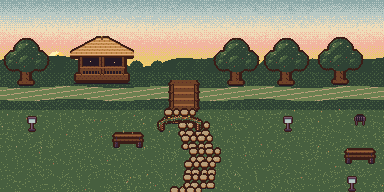
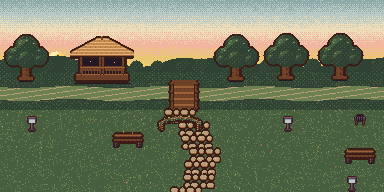
B14: uklad scen, dzialki farmy 16x16, sad, poprawki B9; plan pola i sadu dla programisty
Claude-Session: https://claude.ai/code/session_0135h6bTXzjAgeLjpLoaFjGV

Changed region(s): [[0.5312, 0.1562, 0.9688, 0.4688], [0.0, 0.1562, 0.125, 0.4688]]

diff --git a/tools/art/world/farm_bg.py b/tools/art/world/farm_bg.py
@@ -10,6 +10,7 @@ from PIL import Image
 from garden import blob
 from garden_bg import SKY, _break
 import farm_a
+import farm_b
 
 W, HT, HORIZON = 256, 144, 54
 
@@ -38,7 +39,15 @@ def sky():
     return im
 
 
-def world():
+PLACED = []
+GX, GY, COLS, ROWS = 32, HORIZON + 22, 12, 4      # siatka dzialek 16x16 na trawniku (kazda przerabiana osobno)
+START = [("lawn", c, r) for r in range(ROWS) for c in range(COLS)]
+MID = [("lawn", c, r) for r in range(ROWS) for c in range(COLS) if (c, r) not in {(1, 1), (2, 1), (3, 1), (1, 2), (3, 2), (6, 1), (8, 1), (10, 1), (6, 3), (8, 3), (10, 3), (5, 2)}] + \
+      [("bed", 1, 1), ("bed", 2, 1), ("bed", 3, 1), ("bed", 1, 2), ("bed_wet", 3, 2), ("bed", 5, 2),
+       ("tree", 6, 1), ("tree", 8, 1), ("tree", 10, 1), ("tree", 6, 3), ("tree", 8, 3), ("tree", 10, 3)]
+
+
+def world(plots=()):
     r = random.Random(51)
     im = H.canvas(W, HT)
     for x in range(W):
@@ -57,24 +66,49 @@ def world():
         x, y, w, h = meta[name][i]; return sheet.crop((x, y, x + w, y + h))
     fence = _img("farm/fence_farm.png")
     for x in range(0, W, 16): im.alpha_composite(fence, (x, HORIZON + 6))
-    im.alpha_composite(_img("farm/barn_hay.png"), (176, HORIZON - 34))
-    # sad: dwa rzedy drzewek owocowych na trawie (lewa czesc), z przerwa na sciezke
-    for row, y in enumerate((HORIZON + 22, HORIZON + 54)):
-        for k, name in enumerate(("tree_apple", "tree_strawberry", "tree_apple", "tree_strawberry") if row == 0 else ("tree_strawberry", "tree_apple", "tree_strawberry", "tree_apple")):
-            im.alpha_composite(fr(name, 2), (12 + k * 24, y))
-    # pole: rzedy grzadek z przerwami na trawe (prawa czesc)
-    for row, ty in enumerate((HORIZON + 24, HORIZON + 46, HORIZON + 68)):
-        for tx in range(124, 244, 16):
-            im.alpha_composite(fr("bed_wet" if (row + tx // 16) % 3 == 0 else "bed_empty", 0), (tx, ty))
+    PLACED.clear()
+    def put(n, x, y, i):
+        PLACED.append((n, x, y, i)); im.alpha_composite(i, (x, y))
+    put("barn_hay", 176, HORIZON - 34, _img("farm/barn_hay.png"))
+    kinds = {"lawn": ("plot_lawn", None), "bed": ("bed_empty", 0), "bed_wet": ("bed_wet", 0)}
+    for kind, c, rw in sorted(plots, key=lambda p: p[2]):                       # rzedami od gory: nizsze rysowane pozniej
+        x, y = GX + c * 16, GY + rw * 16
+        if kind == "lawn": put("plot_lawn", x, y, _img("farm/plot_lawn.png"))
+        elif kind in ("bed", "bed_wet"): put(kinds[kind][0], x, y, fr(kinds[kind][0], 0))
+        elif kind == "tree":
+            put("plot_orchard", x, y, _img("farm/plot_orchard.png"))
+            nm = "tree_apple" if (c + rw) % 2 == 0 else "tree_strawberry"
+            put(nm, x, y - 16, fr(nm, 2))
     for _ in range(30):
         x, y = r.randint(0, W - 1), r.randint(HORIZON + 24, HT - 3)
         if im.getpixel((x, y))[:3] in H.RAMPS["moss"]: H.put(im, x, y, r.choice(["hay.2", "linen.2"]))
     return im
 
 
-def build():
+def orchard_scene():
+    """bg:orchard - podglad sadu: trzy dzialki sadu z drzewkami w stadiach 0-2, kosz i drabina na trawie."""
     out = Image.new("RGBA", (W, HT))
-    out.alpha_composite(sky()); out.alpha_composite(world())
+    out.alpha_composite(sky()); base = world([])
+    PLACED.clear()
+    def put(n, x, y, i):
+        PLACED.append((n, x, y, i)); base.alpha_composite(i, (x, y))
+    meta = json.loads((H.WORLD_DIR / "farm/farm.json").read_text(encoding="utf-8"))["frames"]
+    sheet = _img("farm/farm.png")
+    for st in range(3):
+        for k in range(4):
+            c, r = 1 + st * 4 + (k % 2) * 2, 1 + (k // 2) * 2
+            x, y = GX - 16 + c * 16, GY + r * 16
+            put("plot_orchard", x, y, _img("farm/plot_orchard.png"))
+            name = ("tree_apple", "tree_strawberry", "tree_pear", "tree_blueberry")[k]
+            x0, y0, w, h = meta[name][st]
+            put(name, x, y + 16 - h, sheet.crop((x0, y0, x0 + w, y0 + h)))
+    out.alpha_composite(base)
+    return _break(out)
+
+
+def build(plots=()):
+    out = Image.new("RGBA", (W, HT))
+    out.alpha_composite(sky()); out.alpha_composite(world(plots))
     return _break(out)
 
 
@@ -109,5 +143,19 @@ def overview(path):
 if __name__ == "__main__":
     im = build()
     H.save_png(im, H.WORLD_DIR / "bg/farm.png")
+    oi = orchard_scene(); H.save_png(oi, H.WORLD_DIR / "bg/orchard.png")
+    import layout_check as _LC; _LC.report("sad", PLACED)
+    H._update_json(H.TILES_FILE, lambda d: d["bg"].__setitem__("orchard", {"file": "bg/orchard.png", "size": [W, HT]}))
+    oi.convert("RGB").resize((W * 3, HT * 3), Image.NEAREST).save(H.ROOT / "docs/album/przebudowa/b14-4_sad.png")
     H.save_png(im.resize((W * 2, HT * 2), Image.NEAREST), H.WORLD_DIR / "bg/farm_x2.png")
     overview(H.ROOT / "docs/album/przebudowa/b7-6_przeglad_farmy.png")
+    import layout_check as LC
+    S = Path("/tmp/claude-0/-home-user/06cc83a8-7800-529c-8cf3-9903bd86f472/scratchpad")
+    stages = [START, MID, [p for p in MID if p[0] != "lawn"]]
+    sh = Image.new("RGB", (W, HT * 3 + 8))
+    for i, st in enumerate(stages):
+        im2 = build(st); LC.report(f"farma etap {i}", PLACED); sh.paste(im2.convert("RGB"), (0, i * (HT + 4)))
+    sh = sh.resize((sh.width * 3, sh.height * 3), Image.NEAREST)
+    sh.save(S / "b14-farm.png")
+    Path(H.ROOT / "docs/album/przebudowa").mkdir(parents=True, exist_ok=True)
+    sh.save(H.ROOT / "docs/album/przebudowa/b14-4_farma_etapy.png")

diff --git a/tools/art/world/layout_check.py b/tools/art/world/layout_check.py
@@ -1,7 +1,7 @@
 """Kontrola ukladu scen: wykrywa nakladanie sie nieprzezroczystych pikseli przedmiotow (poza dozwolonymi parami)."""
 import numpy as np
 
-FLAT = {"path_cobble", "path_stone", "picnic_blanket", "soil", "pond_big"}      # plaskie, moga lezec pod innymi
+FLAT = {"path_cobble", "path_stone", "picnic_blanket", "soil", "pond_big", "plot_lawn", "plot_field", "plot_orchard"}      # plaskie, moga lezec pod innymi
 
 
 def overlaps(placed, allow=()):
@@ -18,3 +18,40 @@ def overlaps(placed, allow=()):
             n = int((aa[y0 - ya:y1 - ya, x0 - xa:x1 - xa] & ab[y0 - yb:y1 - yb, x0 - xb:x1 - xb]).sum())
             if n and not (na in FLAT or nb in FLAT): out.append((na, nb, n))
     return out
+
+
+def order_issues(placed):
+    """Kolejnosc warstw: przy nachodzeniu pikseli pozniej rysowany ma miec nizsza (wieksze y) dolna krawedz.
+    placed w kolejnosci rysowania; przedmioty scienne (nazwa z prefiksem wall:) i plaskie pomijane."""
+    out = []
+    for i, (na, xa, ya, ia) in enumerate(placed):
+        aa = np.array(ia)[:, :, 3] > 0
+        for nb, xb, yb, ib in placed[i + 1:]:
+            if na in FLAT or nb in FLAT: continue
+            ab = np.array(ib)[:, :, 3] > 0
+            x0, y0 = max(xa, xb), max(ya, yb); x1, y1 = min(xa + aa.shape[1], xb + ab.shape[1]), min(ya + aa.shape[0], yb + ab.shape[0])
+            if x1 <= x0 or y1 <= y0: continue
+            n = int((aa[y0 - ya:y1 - ya, x0 - xa:x1 - xa] & ab[y0 - yb:y1 - yb, x0 - xb:x1 - xb]).sum())
+            if n and yb + ib.height < ya + ia.height:
+                out.append((na, nb, n, "pozniej rysowany stoi wyzej na ekranie"))
+    return out
+
+
+def zone_issues(placed, forbidden, allow=()):
+    """forbidden(x, y) -> True gdy punkt jest w zlej strefie (np. w wodzie). Sprawdza kotwice dol-srodek i dolne rogi."""
+    out = []
+    for n, x, y, im in placed:
+        if n in FLAT or n in allow: continue
+        by = y + im.height - 1
+        for ax in (x + 2, x + im.width // 2, x + im.width - 3):
+            if forbidden(ax, by):
+                out.append((n, ax, by)); break
+    return out
+
+
+def report(name, placed, forbidden=None, allow_zone=(), allow=()):
+    rows = [("nakladanie", *o) for o in overlaps(placed, allow)] + [("kolejnosc", *o) for o in order_issues(placed)]
+    if forbidden: rows += [("strefa", *z) for z in zone_issues(placed, forbidden, allow_zone)]
+    print(f"[{name}] {len(placed)} przedmiotow, problemow: {len(rows)}")
+    for r in rows: print("   ", r)
+    return rows

diff --git a/tools/art/world/garden_bg.py b/tools/art/world/garden_bg.py
@@ -65,6 +65,9 @@ def sky(tod):
     return im
 
 
+PLACED = []
+
+
 def world(tod):
     r = random.Random(21)
     im = H.canvas(W, HT)
@@ -84,20 +87,23 @@ def world(tod):
         H.rrect(im, x + 1, HORIZON - 2, x + 4, HORIZON + 12, 1, ("wood.0", "wood.1", "wood.2", "wood.2"))
     H.hline(im, 0, W - 1, HORIZON + 3, "wood.2"); H.hline(im, 0, W - 1, HORIZON + 4, "wood.1")
     H.hline(im, 0, W - 1, HORIZON + 8, "wood.2"); H.hline(im, 0, W - 1, HORIZON + 9, "wood.1")
+    PLACED.clear()
+    def put(name, x, y, i):
+        PLACED.append((name, x, y, i)); im.alpha_composite(i, (x, y))
     ga = Image.open(H.WORLD_DIR / "garden/gate_garden.png").convert("RGBA")       # furtka na srodku plotu
-    for dx in (0, 16): im.alpha_composite(ga, (120 + dx - 8, HORIZON - 2))
+    for dx in (0, 16): put("gate_garden", 120 + dx - 8, HORIZON - 2, ga)
     # sciezka: kamienie coraz wieksze ku dolowi
     ps = Image.open(H.WORLD_DIR / "garden/path_stone.png").convert("RGBA")
     for row in range(6):
         im.alpha_composite(ps, (122 + (8 if row % 2 else -4) + row, HORIZON + 14 + row * 13))
     # tunel z wierzby, drzewa, krzewy
-    im.alpha_composite(home.willow_tunnel(), (24, HORIZON + 8))
+    put("willow_tunnel", 24, HORIZON + 8, home.willow_tunnel())
     t1, t2 = tree_small(), tree_small()
-    im.alpha_composite(t1, (196, HORIZON - 30)); im.alpha_composite(t2, (232, HORIZON - 26))
+    put("tree_small", 196, HORIZON - 30, t1); put("tree_small", 232, HORIZON - 26, t2)
     for name, x, y in (("bush_berry", 80, HORIZON + 14), ("hedge", 185, HORIZON + 14), ("hedge", 201, HORIZON + 14),
                        ("flowerbed_tulip", 8, HORIZON + 50), ("flowerbed_daisy", 200, HORIZON + 62),
                        ("bench_wood", 150, HORIZON + 40), ("bird_bath", 60, HORIZON + 58)):
-        im.alpha_composite(Image.open(H.WORLD_DIR / f"garden/{name}.png").convert("RGBA"), (x, y))
+        put(name, x, y, Image.open(H.WORLD_DIR / f"garden/{name}.png").convert("RGBA"))
     for _ in range(36):                                                           # drobne kwiaty
         x, y = r.randint(0, W - 1), r.randint(HORIZON + 24, HT - 3)
         if im.getpixel((x, y))[:3] in H.RAMPS["moss"] or True:

diff --git a/tools/art/world/farm_b.py b/tools/art/world/farm_b.py
@@ -1,0 +1,54 @@
+"""B14-4/5: dzialki farmy 64x64 (trawnik do przerobienia, pole, sad). Gracz sam wybiera, co z dzialki powstaje."""
+import json
+import random
+import sys
+from pathlib import Path
+sys.path.insert(0, str(Path(__file__).resolve().parents[1]))
+import handart as H
+from PIL import Image
+
+W, Ht = 16, 16                                              # jedna dzialka = jedno male pole 16x16, tworzone osobno
+CELL = 16
+
+
+def _grass(im, r, tones):
+    for y in range(Ht):
+        for x in range(W):
+            c = tones[0]
+            if r.random() < .14: c = tones[1]
+            if r.random() < .05: c = tones[2]
+            H.put(im, x, y, c)
+
+
+def plot_lawn():
+    """Puste pole z trawnikiem: jasniejsza kratka z naroznikami z siana (miejsce do przerobienia)."""
+    im = H.canvas(W, Ht)
+    _grass(im, random.Random(7), ("moss.2", "moss.1", "moss.3"))
+    for x, y in ((0, 0), (W - 1, 0), (0, Ht - 1), (W - 1, Ht - 1)): H.put(im, x, y, "hay.1")
+    return im
+
+
+def plot_orchard():
+    """Miejsce na drzewko: trawa z kregiem sciolki; drzewko (16x32) stoi dolem na tej komorce, korona zajmuje komorke nad nia."""
+    im = H.canvas(W, Ht)
+    _grass(im, random.Random(11), ("moss.2", "moss.1", "moss.3"))
+    for dy, hw in ((-4, 4), (-3, 6), (-2, 7), (-1, 6), (0, 4)):
+        H.hline(im, 8 - hw, 7 + hw, 10 + dy + 2, "wood.1" if abs(dy) < 2 else "wood.0")
+    H.hline(im, 5, 10, 10, "wood.2")
+    return im
+
+
+ITEMS = {"plot_lawn": plot_lawn, "plot_orchard": plot_orchard}   # pole = istniejace bed_empty / bed_wet
+
+
+def build():
+    for k, f in ITEMS.items():
+        H.register_item(k, "farm", f())
+
+
+if __name__ == "__main__":
+    build()
+    S = Path("/tmp/claude-0/-home-user/06cc83a8-7800-529c-8cf3-9903bd86f472/scratchpad")
+    sh = Image.new("RGBA", (W * 4 + 16, Ht + 8), (40, 70, 40, 255))
+    for i, f in enumerate(ITEMS.values()): sh.alpha_composite(f(), (4 + i * (W + 4), 4))
+    sh.resize((sh.width * 4, sh.height * 4), Image.NEAREST).save(S / "b14-plots.png")

diff --git a/tools/art/world/decor_a.py b/tools/art/world/decor_a.py
@@ -249,8 +249,8 @@ def h_house():
 def fence_wire(frame, bar, seed):
     im = H.canvas(24, 40)
     for x in (1, 22): H.vline(im, x, 0, 39, frame); H.vline(im, x + 1 if x == 1 else x - 1, 0, 39, bar)
-    for x in range(4, 22, 4): H.vline(im, x, 1, 38, bar)
-    for y in range(2, 39, 6): H.hline(im, 1, 22, y, frame)
+    for x in range(7, 22, 7): H.vline(im, x, 1, 38, bar)
+    for y in (3, 19, 35): H.hline(im, 1, 22, y, frame)
     return fin(im)
 
 
@@ -395,9 +395,12 @@ def pic_field():
 
 
 def pic_pigs():
-    im = H.canvas(22, 18); H.rect(im, 1, 1, 20, 16, "wood.2"); H.rect(im, 3, 3, 18, 14, "hay.0")
-    for x, w in ((5, 6), (12, 4)):
-        oval(im, x + w // 2, 10, w // 2 + 1, 2, "wood.1"); H.put(im, x + w, 9, "plum.2"); H.put(im, x + 1, 8, "wood.0")
+    im = H.canvas(22, 18); H.rect(im, 1, 1, 20, 16, "wood.2"); H.rect(im, 3, 3, 18, 14, "hay.1")
+    H.hline(im, 3, 18, 13, "moss.2"); H.hline(im, 3, 18, 14, "moss.1")
+    oval(im, 8, 10, 4, 3, "wood.1"); oval(im, 15, 11, 2, 2, "linen.2")             # duza i mala swinka
+    for x, y in ((5, 8), (13, 9)): H.put(im, x, y, "wood.0" if x < 10 else "linen.1")      # uszy
+    for x, y in ((5, 10), (13, 11)): H.put(im, x, y, "plum.0")                                # oczy
+    H.put(im, 4, 11, "rose.1"); H.put(im, 12, 12, "rose.1")                                 # noski
     return fin(im)
 
 

diff --git a/tools/art/world/market_bg.py b/tools/art/world/market_bg.py
@@ -32,6 +32,9 @@ def sky():
     return im
 
 
+PLACED = []
+
+
 def world():
     r = random.Random(61)
     im = H.canvas(W, HT)
@@ -45,10 +48,13 @@ def world():
     for k, y in enumerate(range(HORIZON + 66, HT - 4, 13)):
         for x in range(-8 + (k % 2) * 8, W, 16): im.alpha_composite(pc, (x, y))
     H.break_checkers(im)
-    for name, x, y in STALLS: im.alpha_composite(_img(f"market/{name}.png"), (x, y))
-    im.alpha_composite(_img("market/order_board.png"), (64, HORIZON + 40))
-    for n, x in (("promo_1", 30), ("promo_2", 112), ("promo_3", 196)): im.alpha_composite(_img(f"market/{n}.png"), (x, HORIZON + 68))
-    for n, x in (("poster_2", 163), ("poster_3", 177), ("poster_1", 238)): im.alpha_composite(_img(f"market/{n}.png"), (x, HORIZON + 40))
+    PLACED.clear()
+    def put(n, x, y):
+        i = _img(f"market/{n}.png"); PLACED.append((n, x, y, i)); im.alpha_composite(i, (x, y))
+    for name, x, y in STALLS: put(name, x, y)
+    put("order_board", 64, HORIZON + 40)
+    for n, x in (("promo_1", 30), ("promo_2", 112), ("promo_3", 196)): put(n, x, HORIZON + 68)
+    for n, x in (("poster_2", 163), ("poster_3", 177), ("poster_1", 238)): put(n, x, HORIZON + 40)
     return im
 
 

diff --git a/tools/art/world/room_scenes.py b/tools/art/world/room_scenes.py
@@ -13,9 +13,9 @@ TILES = json.loads(H.TILES_FILE.read_text(encoding="utf-8"))["tiles"]
 WALL_ROWS, W, Ht = 4, 10, 7
 LAYOUT = {   # id -> (x_lewy, y_gora | None = na podlodze)
     "kuki": [("window_sun", 8, 14), ("side_table", 52, None), ("cushion_big", 70, None), ("sig_kuki_blanket", 18, None)],
-    "ned": [("shelf_small", 14, 20), ("hay_bar_wood", 54, None), ("cushion_big", 100, None), ("sig_ned_snack_nook", 10, None)],
+    "ned": [("shelf_small", 14, 20), ("cushion_big", 44, None), ("hay_bar_wood", 62, None), ("sig_ned_snack_nook", 10, None)],
     "james": [("curtains_dots", 10, 16), ("fairy_lights", 50, 8), ("cosy_nook", 60, None), ("sig_james_hideout", 10, None)],
-    "glen": [("bookshelf", 10, None), ("armchair", 54, None), ("cushion_big", 100, None), ("sig_glen_knit_bed", 20, None)],
+    "glen": [("bookshelf", 4, None), ("sig_glen_knit_bed", 38, None), ("armchair", 74, None), ("cushion_big", 110, None)],
     "racuch": [("hanging_planter", 40, 12), ("fairy_lights", 4, 6), ("toy_basket", 60, None), ("sig_racuch_hop_pad", 6, None)],
 }
 

diff --git a/tools/art/world/park_bg.py b/tools/art/world/park_bg.py
@@ -84,7 +84,7 @@ def world(extra=()):
         i = _img(rel or f"park/{name}.png"); PLACED.append((name, x, y, i)); im.alpha_composite(i, (x, y))
     bank = STREAM[0] - 2                                                       # drzewa i altana stoja na dalekim brzegu
     put("gazebo", 70, bank - 48)
-    for x in (2, 212, 262, 316): put("tree_big", x, bank - 48 + (x % 5))
+    for x in (2, 212, 262, 316): put("tree_big", x, bank - 52 + (x % 3))
     put("bridge_wood", *BRIDGE)
     pc = _img("park/path_cobble.png")                                          # sciezka od mostu w dol
     for k, y in enumerate(range(STREAM[1] + 8, HT - 4, 13)):

diff --git a/docs/PLAN.md b/docs/PLAN.md
@@ -264,6 +264,15 @@ Grafika jest gotowa w `assets/` (kontrakt plików: `docs/KONTRAKT_ASSETOW.md`, s
 | G10 | Kontrola plików: skrypt `tools/qa/check-assets.js` (każdy id z `world_items.json`, `farm.json`, `pigs_named.json` ma plik; każda klasa `icon-*` ma wpis w `icons.json`) plus krok w `SelfTest` | `tools/qa/check-assets.js`, `SelfTest.cs` | W16 lub W22-05 | SMOKE + BUILD |
 Poza kodem: rysunek 3 starych animacji z `Resources/animations.xml` zostaje jak jest; po wdrożeniu G1-G8 człowiek ogląda wszystkie ekrany w grze, a Claude poprawia grafikę na podstawie zrzutów (nowa mała fala S6).
 
+### Pole i sad zależne od gracza (dla programisty; do G6 i W20-05 / W18)
+Gracz sam decyduje, ile ma pól uprawnych i ile drzewek w sadzie. Na początku dostaje **puste pole z trawnikiem** (`bg:farm`: trawa, płot i stodoła, bez grządek i drzew). Trawnik to siatka małych kwadratowych działek **16x16, każda przerabiana osobno** (żadnych dużych połaci):
+- działka `lawn` (`plot_lawn`, 16x16, jaśniejsza kratka z narożnikami z siana) → **grządka** (`bed_empty`, 16x16) albo **miejsce na drzewko** (`plot_orchard`, 16x16, krąg ściółki, na nim stoi drzewko 16x32; korona zajmuje komórkę nad nim, więc ta komórka jest zarezerwowana i nie przyjmie drugiego drzewka);
+- **grządka jest sucha** (`bed_empty`), mokra (`bed_wet`) tylko po podlaniu i znowu sucha po wyschnięciu (czas z `farm.json`); mokra grządka nie jest osobnym typem działki;
+- przeróbka kosztuje koniczynki, rozbiórka zwraca działkę do trawnika; liczba działek i podział pole/sad nie są zaszyte w układzie: stan zapisu trzyma listę działek `{col, row, kind: lawn|bed|tree, stage, wet}`, a `FarmExpansion` odblokowuje kolejne komórki siatki za koniczynki (strop w `farm.json`);
+- scena: tło, potem działki rzędami od góry (niższe rysowane później), potem światło; siatka 12x4 komórek na trawniku (`farm_bg.GX/GY/COLS/ROWS`), zasady warstw w `docs/UKLAD_SCEN.md`;
+- nowe id: `plot_lawn`, `plot_orchard` (atlas, `place: farm`), `bg:orchard` (podgląd sadu 256x144).
+Akceptacja: nowy zapis startuje z samymi działkami `lawn`; test w `FarmEngine`/`FarmExpansion`: przeróbka lawn→bed i lawn→tree, rozbiórka, limit działek, nawodnienie tylko grządek, zgodność zapisu.
+
 ## Mapa starych zadań
 F2-02→PR #32 (W1-01,W1-02,W2-01 stare) + W1-09,W1-10,W2-01 · F2-07→zrobione · F3-01→W1-03,W1-04,W2-02,W3-01,W7-06 · F3-03→W4-01..W4-04,W7-07,W7-08 · F4-01→W4-07,W5-01,W5-02 · F4-02→W4-06,W6-01,W6-02 ·
 F4-03→W1-05,W2-03,W3-03 · F4-04→W3-04,W3-05,W4-05 · F4-05→W1-06,W2-06,W2-08,W5-04 · F4-06→W1-07,W2-04,W5-03,W6-02,W6-03 · F4-07→W3-08,W4-08 · F4-08→W2-09,W3-07 ·

diff --git a/docs/UKLAD_SCEN.md b/docs/UKLAD_SCEN.md
@@ -1,0 +1,21 @@
+# Układ scen: warstwy, strefy i nakładanie
+
+Zasady dla każdego tła i sceny (park, ogród, farma, targ, pokoje). Kontrola: `tools/art/world/layout_check.py` (`report(nazwa, placed, forbidden, allow_zone)`).
+
+## Kolejność rysowania
+1. niebo, 2. dal (wzgórza, linia drzew), 3. podłoże (trawa, woda, ścieżki, działki farmy, koc), 4. przedmioty **rosnąco po dolnej krawędzi** (y + wysokość): kto stoi niżej na ekranie, jest rysowany później i zasłania tego, kto stoi wyżej, 5. światło (`light.render`), 6. źródła światła (lampy, żar, żarówki) i świnki z własnym światłem.
+Płaskie przedmioty (`FLAT`: ścieżki, koc, kałuża, działki) leżą pod resztą i nigdy nie zasłaniają.
+
+## Strefy
+- **woda**: nic nie stoi dolną krawędzią w wodzie; wyjątek: most (`bridge_wood`) leży w poprzek strumienia.
+- **brzeg**: drzewa, altana i krzewy dalekiego brzegu stoją dolną krawędzią co najmniej 2 px nad wodą.
+- **trawa**: ławki, ogniska, fontanna, drzewa, ławki; **ścieżka** zostaje wolna.
+- **ognisko/brazier** nie stoi przy fontannie ani posągu (światło i woda się gryzą).
+- **działki farmy**: pole i sad dostają siatkę (grządki 16x16, drzewka w punktach `TREE_SPOTS`); drzewa nie rosną na polu.
+
+## Co wolno na co nachodzić
+- Dozwolone: świnka przed meblem lub ławką (świnka niżej na ekranie), mebel podłogowy przed ścienną ozdobą, drzewo przed horyzontem, płaskie pod wszystkim.
+- Niedozwolone: dwa przedmioty stojące obok siebie z wspólnymi pikselami, jeśli to nie para z listy wyżej; wyższy na ekranie rysowany później; napis lub tabliczka przecinająca stragan.
+
+## Kontrola
+`python3 tools/art/world/farm_bg.py`, `park_bg.py`, `garden_bg.py`, `market_bg.py` wypisują raport; zero problemów jest warunkiem zamknięcia zadania. Pokoje: nachodzenie świnki na meble (świnka stoi przed nimi) jest zamierzone, reszta musi być czysta.

diff --git a/docs/VISUAL_LOG.md b/docs/VISUAL_LOG.md
@@ -147,3 +147,10 @@ sofa_cosy (bochenek, brick, 4 warianty), fireplace (wył + 4 klatki wł), lamp_m
 - Farma: sad (drzewka owocowe) po lewej na trawie, pole z rzędami grządek po prawej (zamiast jednego bloku ziemi).
 - Ogród: drzewa za płotem, nie w płocie. Targ: plakaty i tabliczki bez nakładania na stragany.
 - Nowe narzędzie: tools/art/world/layout_check.py (wykrywa nakładanie nieprzezroczystych pikseli przedmiotów). Stosować przy każdym tle/scenie w B11-B13.
+
+## B14 - sad i układ scen (3.11.2026)
+- `docs/UKLAD_SCEN.md`: kolejność warstw, strefy, dozwolone nakładanie; `layout_check.py` kontroluje nakładanie, kolejność i kotwice w wodzie; raporty w `park_bg`, `garden_bg`, `market_bg`, `farm_bg`.
+- Poprawki: drzewa parku wyżej nad wodą; pokoje Neda i Glena bez nachodzenia mebli.
+- Farma: tło `bg/farm.png` to pusty trawnik; działki to małe pola 16x16 tworzone osobno (`plot_lawn`, `plot_orchard`; grządki `bed_empty`, mokra `bed_wet` tylko po podlaniu). `bg:orchard` jako podgląd sadu. Albumy `b14-4_farma_etapy.png`, `b14-4_sad.png`.
+- B9: `fence_wire_black/white` rzadsze, `picture_pig_family` czytelny.
+- Hand-off dla kodu: sekcja "Pole i sad zależne od gracza" w `docs/PLAN.md`.
